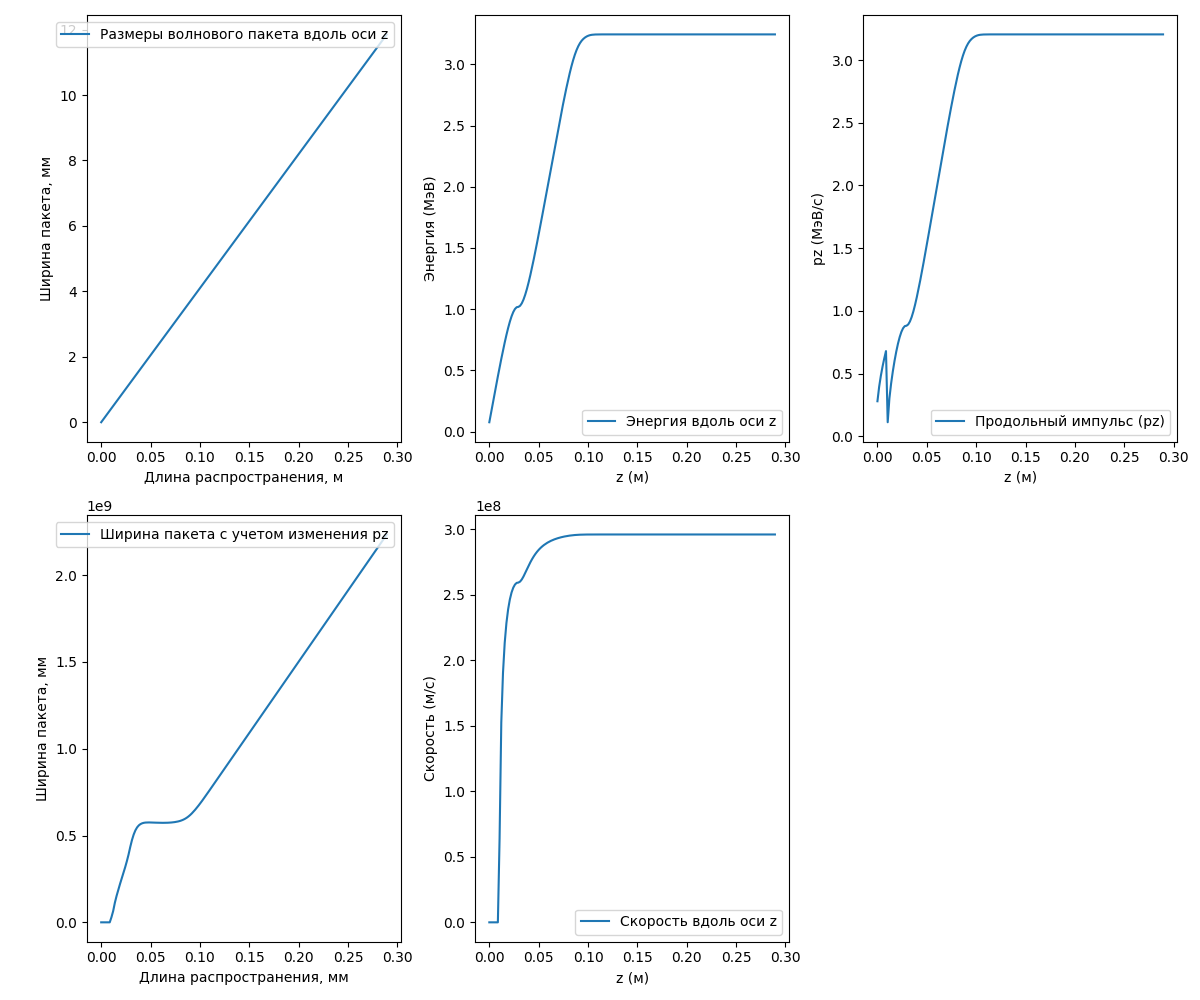
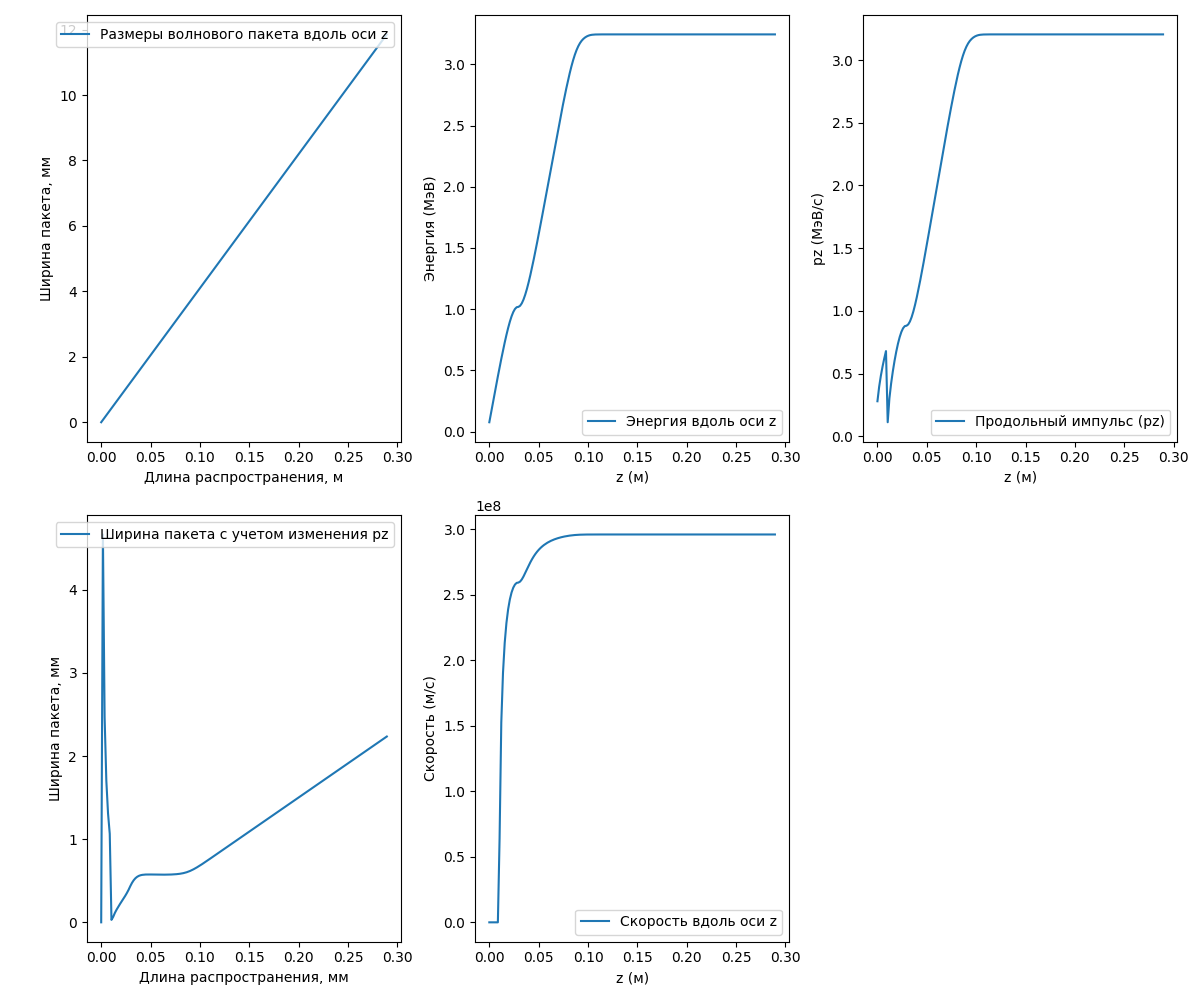
Перевел МэВ в эВ, чтобы согласовать единицы, вроде норм.

diff --git a/test polygon.py b/test polygon.py
@@ -93,9 +93,12 @@ def real_packet_width_with_pz(z_values, pz_profile, v_profile, r0, n, l):
     new_z = np.zeros_like(z_values)
     for i in range(1, len(z_values)):
         new_z[i] = integ.simps(v_profile[:i+1], z_values[:i+1])
+    
+    # Переводим pz из МэВ в эВ
+    pz_profile_eV = pz_profile * 1e6
 
     print("Значения new_z (в метрах):", new_z)
-    ldb_values = [de_broglie_wavelength(pz) for pz in pz_profile]
+    ldb_values = [de_broglie_wavelength(pz) for pz in pz_profile_eV]
     rho_mid0 = rho_mid(r0, M)
     ksi = coherence_length(rho_mid0)  # начальная длина когерентности
 
